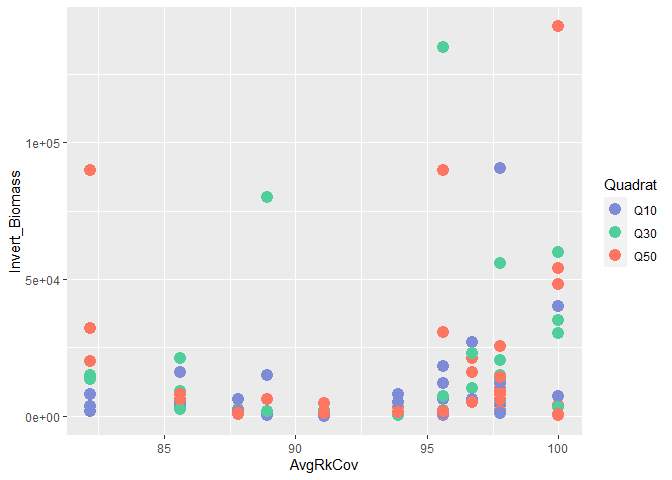
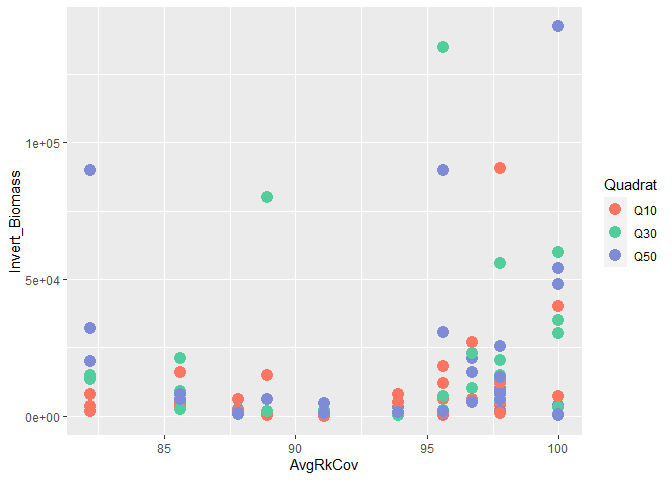
updating figure colours

diff --git a/HiLo_exploratory.md b/HiLo_exploratory.md
@@ -16,7 +16,7 @@ The study uses 14 sites, 7 “high” current sites and 7 “low” current
 sites. At each site Sharon collected invert data in 9 quadrats that are
 seperated into 3 depths (10, 30 and 50 ft depth). There is no repeat
 sampling so there are a total of 126 data points (14sites\*9quadrats).
-However, because there are multiple collections at each site, a mized
+However, because there are multiple collections at each site, a mixed
 effects model is necessary to account for replciation at the site level.
 I don’t think that we need to nest transect within site because I think
 that each transect was at 1 depth (need to confirm this with Sharon) and
